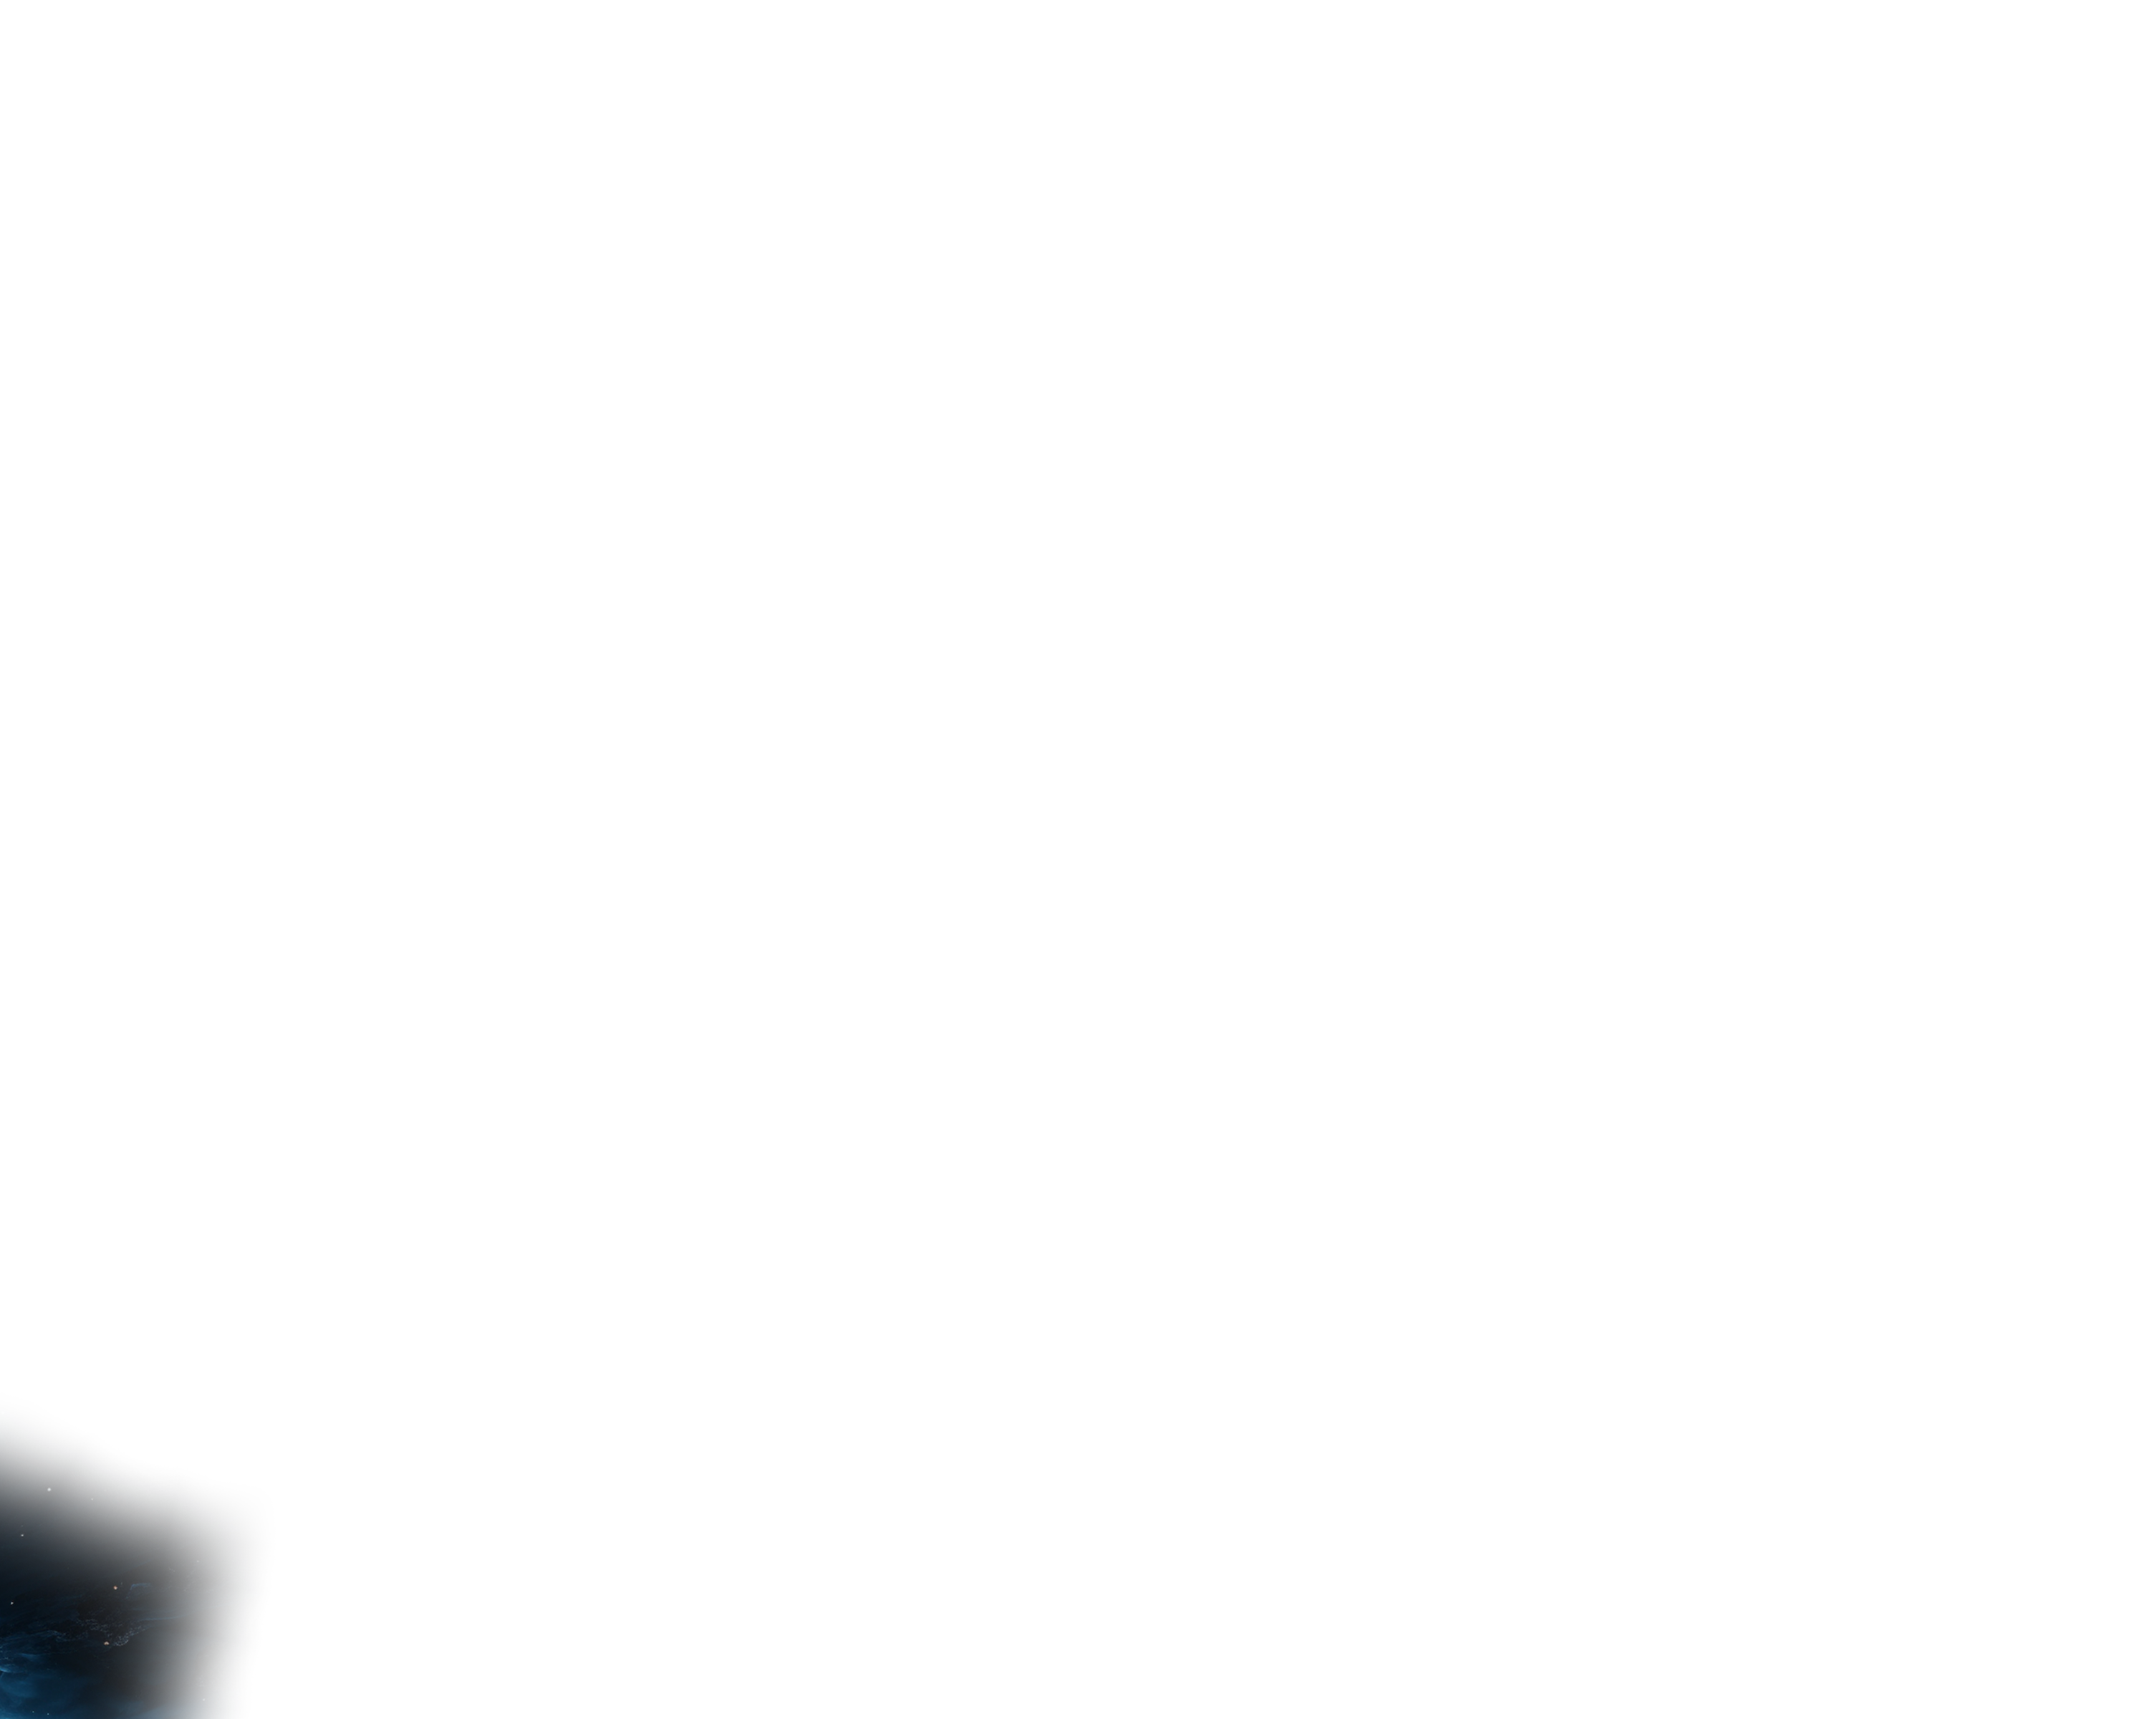
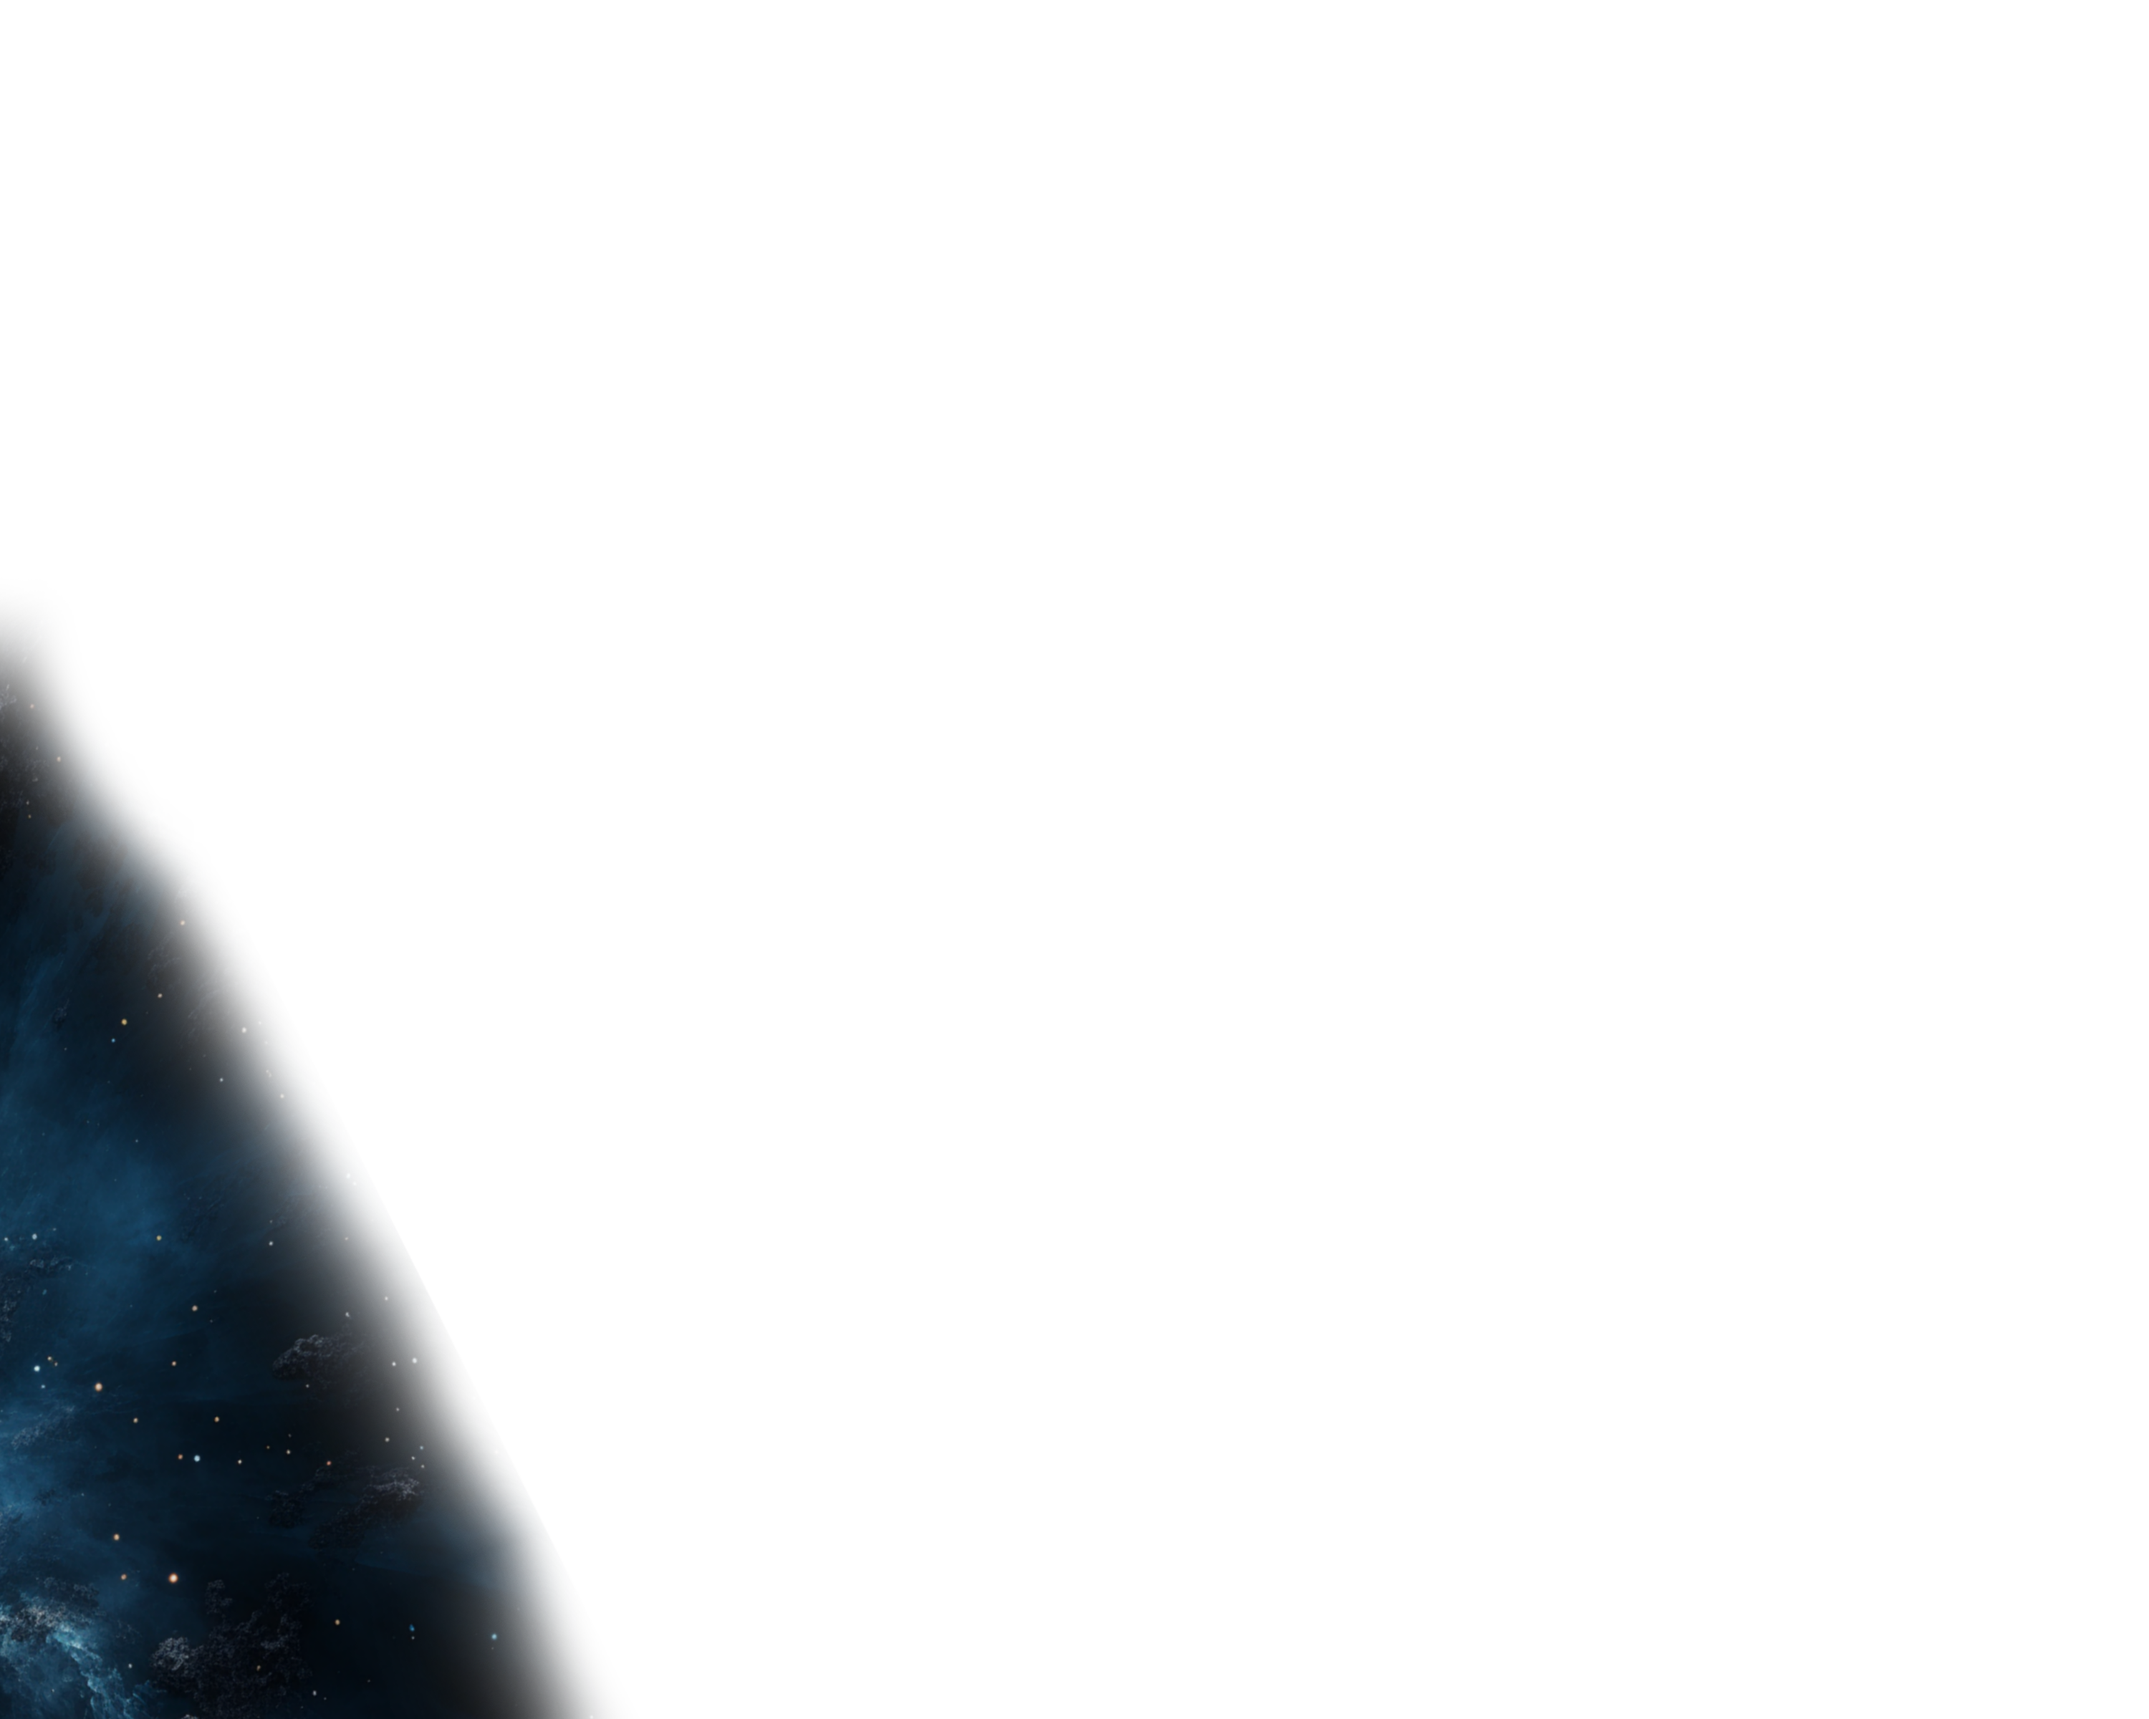
constant react errors

Changed region(s): [[0.0, 0.3438, 0.279, 1.0]]

diff --git a/pages/index.js b/pages/index.js
@@ -2,15 +2,14 @@ import Image from "next/image";
 
 // components import
 import ParticlesContainer from "../components/ParticlesContainer";
-import Resume from "../components/ResumeBtn";
 import Avatar from "../components/Avatar";
+import ResumeBtn from "../components/ResumeBtn";
 
 // framer
 import { motion } from "framer-motion";
 
 // effects
 import { fadeIn } from "../variants";
-import ResumeBtn from "../components/ResumeBtn";
 
 const Home = () => {
   return (
@@ -27,13 +26,17 @@ const Home = () => {
           </p>
           {/* resume */}
           <div className='flex justify-center xl:hidden relative'>
-            <ResumeBtn />
-          </div>
+          <ResumeBtn />
+           </div>
         </div>
       </div>
       <div>img</div>
     </div>
   );
 };
+
+<ParticlesContainer/>
+
+
 
 export default Home;

diff --git a/components/ResumeBtn.js b/components/ResumeBtn.js
@@ -1,24 +1,3 @@
-// next 
-// import Image from 'next/image';
-// import Link from  'next/link';
-
-// import {HiDocumentText} from 'react-icons/hi2';
-
-// const ResumeBtn = () => {
-//   return (
-//     <div className='mx-auto xl:mx-0'>
-//       <Link href='/path/to/your/resume.pdf' download>
-//         <div className='w-16 h-16 bg-[#41809d] rounded-full flex items-center justify-center text-white cursor-pointer'>
-//           <span className='text-xl'>
-//             <i className=''>
-//               <HiDocumentText />
-//             </i>
-//           </span>
-//         </div>
-//       </Link>
-//     </div>
-//   );
-// };
 
 // export default ResumeBtn;
 import { motion } from 'framer-motion';

diff --git a/components/Layout.js b/components/Layout.js
@@ -10,6 +10,7 @@ import Nav from '../components/Nav';
 import Header from '../components/Header';
 import Topleftimg from '../components/TopLeftImg';
 import TopRightImg from '../components/TopRightImg'; 
+import BottomLeftImg from '../components/BottomLeftImg';
 
 const Layout = ({ children }) => {
   return (
@@ -19,6 +20,7 @@ const Layout = ({ children }) => {
       <TopRightImg /> 
       <Nav />
       <Header />
+      <BottomLeftImg /> 
       {children}
     </div>
   );

diff --git a/components/BottomleftImg.js b/components/BottomleftImg.js
@@ -1,0 +1,11 @@
+import Image from "next/image";
+
+const BottomLeftImg = () => {
+  return (
+    <div className='fixed bottom-0 left-0 z-10 w-[800px] xl:w-[800px] opacity-40'>
+      <Image src='/bleft.png' width={800} height={800} alt='' />
+    </div>
+  );
+};
+
+export default BottomLeftImg;
